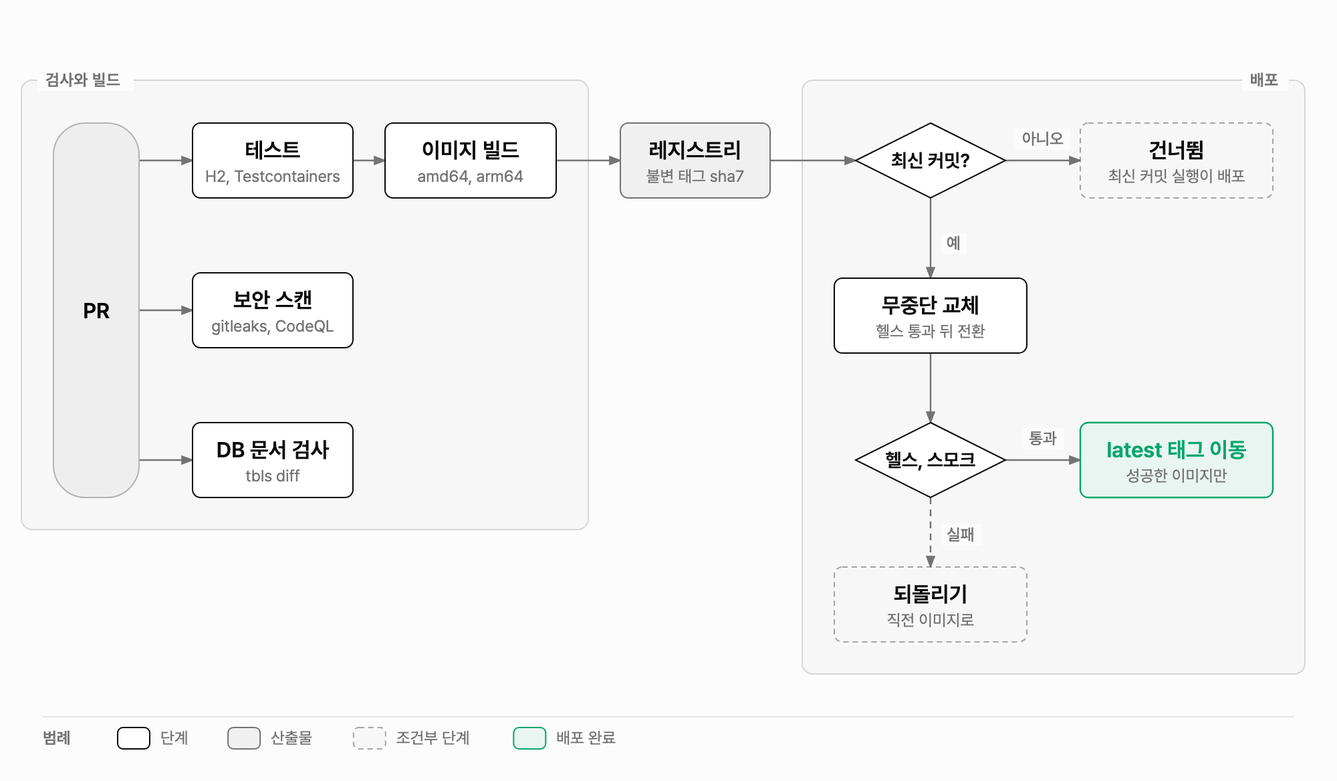
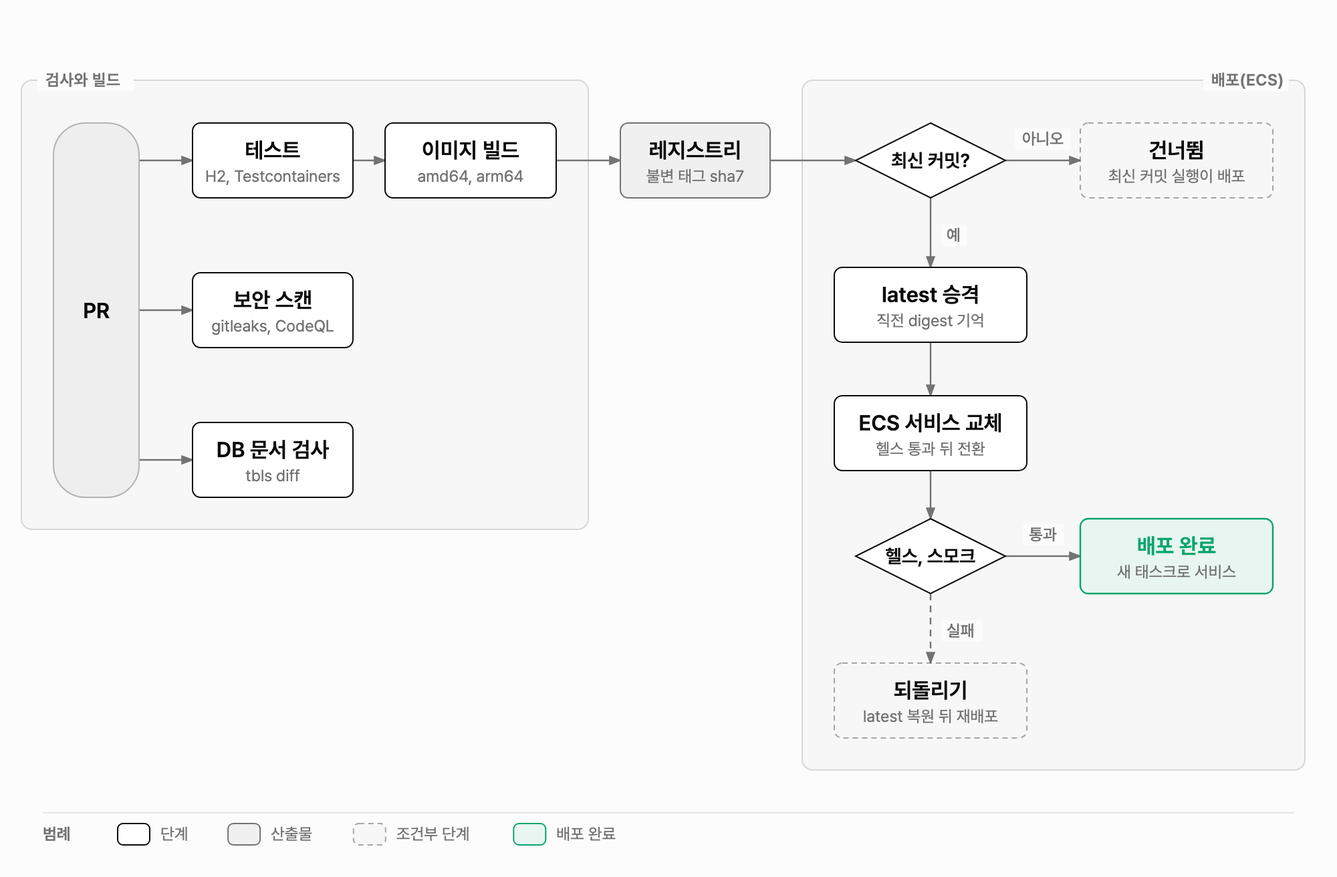
[KNK-2119] Docs: CI/CD 그림의 배포 단계를 ECS 순서로 고치고 보안 검사 범위를 밝힘

diff --git a/docs/diagrams/cicd-pipeline.html b/docs/diagrams/cicd-pipeline.html
@@ -1,1 +1,1 @@
-<!doctype html><html lang="ko"><head><meta charset="utf-8"><title>CI/CD 파이프라인</title><link rel="stylesheet" href="https://cdn.jsdelivr.net/gh/orioncactus/pretendard@v1.3.9/dist/web/variable/pretendardvariable.min.css"><link href="https://fonts.googleapis.com/css2?family=Geist+Mono:wght@400;500;600&display=swap" rel="stylesheet"><style>body{margin:0;background:#fcfcfc;font-family:'Pretendard Variable', Pretendard, 'Apple SD Gothic Neo', sans-serif;color:#0a0a0a}header{max-width:1000px;margin:32px auto 8px;padding:0 16px}h1{font-size:24px;margin:0 0 4px}p{color:#737373;margin:0}main{max-width:1000px;margin:0 auto 40px}</style></head><body><header><h1>CI/CD 파이프라인</h1><p>레지스트리가 검사와 빌드, 배포를 잇는다</p></header><main><svg xmlns="http://www.w3.org/2000/svg" viewBox="0 0 1000 584" width="1000" height="584" role="img" aria-labelledby="cicd-pipeline-title cicd-pipeline-desc"><title id="cicd-pipeline-title">CI/CD 파이프라인</title><desc id="cicd-pipeline-desc">PR 검사와 이미지 빌드, 레지스트리, 최신 커밋 확인, 무중단 교체, 헬스와 스모크, latest 태그 이동과 되돌리기로 이어지는 흐름</desc><defs><marker id="cicd-pipeline-arrow" markerWidth="8" markerHeight="6" refX="7" refY="3" orient="auto"><polygon points="0 0, 8 3, 0 6" fill="#737373"/></marker><marker id="cicd-pipeline-arrow-accent" markerWidth="8" markerHeight="6" refX="7" refY="3" orient="auto"><polygon points="0 0, 8 3, 0 6" fill="#05a66b"/></marker><marker id="cicd-pipeline-arrow-link" markerWidth="8" markerHeight="6" refX="7" refY="3" orient="auto"><polygon points="0 0, 8 3, 0 6" fill="#1f8a65"/></marker></defs><rect width="100%" height="100%" fill="#fcfcfc"/><rect x="600" y="60.0" width="376" height="444.0" rx="8" fill="rgba(10,10,10,0.02)" stroke="rgba(10,10,10,0.14)" stroke-width="1"/><rect x="929" y="52.0" width="35" height="16" fill="#fcfcfc"/><text x="935" y="64.0" font-family="'Pretendard Variable', Pretendard, 'Apple SD Gothic Neo', sans-serif" font-size="12" font-weight="600" fill="#737373" letter-spacing="0.02em">배포</text><rect x="16" y="60" width="424" height="336" rx="8" fill="rgba(10,10,10,0.02)" stroke="rgba(10,10,10,0.14)" stroke-width="1"/><rect x="28" y="52" width="72" height="16" fill="#fcfcfc"/><text x="34" y="64" font-family="'Pretendard Variable', Pretendard, 'Apple SD Gothic Neo', sans-serif" font-size="12" font-weight="600" fill="#737373" letter-spacing="0.02em">검사와 빌드</text><path d="M 104,120 L 144,120" fill="none" stroke="#737373" stroke-width="1.2" marker-end="url(#cicd-pipeline-arrow)"/><path d="M 104,232 L 144,232" fill="none" stroke="#737373" stroke-width="1.2" marker-end="url(#cicd-pipeline-arrow)"/><path d="M 104,344 L 144,344" fill="none" stroke="#737373" stroke-width="1.2" marker-end="url(#cicd-pipeline-arrow)"/><path d="M 264,120 L 288,120" fill="none" stroke="#737373" stroke-width="1.2" marker-end="url(#cicd-pipeline-arrow)"/><path d="M 416,120 L 464,120" fill="none" stroke="#737373" stroke-width="1.2" marker-end="url(#cicd-pipeline-arrow)"/><path d="M 576,120 L 640,120" fill="none" stroke="#737373" stroke-width="1.2" marker-end="url(#cicd-pipeline-arrow)"/><path d="M 752,120 L 808,120" fill="none" stroke="#737373" stroke-width="1.2" marker-end="url(#cicd-pipeline-arrow)"/><path d="M 696,148 L 696,208" fill="none" stroke="#737373" stroke-width="1.2" marker-end="url(#cicd-pipeline-arrow)"/><path d="M 696,264 L 696,316" fill="none" stroke="#737373" stroke-width="1.2" marker-end="url(#cicd-pipeline-arrow)"/><path d="M 752,344 L 808,344" fill="none" stroke="#737373" stroke-width="1.2" marker-end="url(#cicd-pipeline-arrow)"/><path d="M 696,372 L 696,424" fill="none" stroke="#737373" stroke-width="1.2" stroke-dasharray="5,4" marker-end="url(#cicd-pipeline-arrow)"/><rect x="40" y="92" width="64" height="280" rx="24" fill="#fcfcfc"/><rect x="40" y="92" width="64" height="280" rx="24" fill="rgba(115,115,115,0.10)" stroke="#b3b3b3" stroke-width="1"/><text x="72" y="238" text-anchor="middle" font-family="'Pretendard Variable', Pretendard, 'Apple SD Gothic Neo', sans-serif" font-size="16" font-weight="600" fill="#0a0a0a">PR</text><rect x="144" y="92" width="120" height="56" rx="6" fill="#fcfcfc"/><rect x="144" y="92" width="120" height="56" rx="6" fill="#ffffff" stroke="#0a0a0a" stroke-width="1"/><text x="204" y="118" text-anchor="middle" font-family="'Pretendard Variable', Pretendard, 'Apple SD Gothic Neo', sans-serif" font-size="16" font-weight="600" fill="#0a0a0a">테스트</text><text x="204" y="136" text-anchor="middle" font-family="'Pretendard Variable', Pretendard, 'Apple SD Gothic Neo', sans-serif" font-size="12" fill="#737373">H2, Testcontainers</text><rect x="144" y="204" width="120" height="56" rx="6" fill="#fcfcfc"/><rect x="144" y="204" width="120" height="56" rx="6" fill="#ffffff" stroke="#0a0a0a" stroke-width="1"/><text x="204" y="230" text-anchor="middle" font-family="'Pretendard Variable', Pretendard, 'Apple SD Gothic Neo', sans-serif" font-size="16" font-weight="600" fill="#0a0a0a">보안 스캔</text><text x="204" y="248" text-anchor="middle" font-family="'Pretendard Variable', Pretendard, 'Apple SD Gothic Neo', sans-serif" font-size="12" fill="#737373">gitleaks, CodeQL</text><rect x="144" y="316" width="120" height="56" rx="6" fill="#fcfcfc"/><rect x="144" y="316" width="120" height="56" rx="6" fill="#ffffff" stroke="#0a0a0a" stroke-width="1"/><text x="204" y="342" text-anchor="middle" font-family="'Pretendard Variable', Pretendard, 'Apple SD Gothic Neo', sans-serif" font-size="16" font-weight="600" fill="#0a0a0a">DB 문서 검사</text><text x="204" y="360" text-anchor="middle" font-family="'Pretendard Variable', Pretendard, 'Apple SD Gothic Neo', sans-serif" font-size="12" fill="#737373">tbls diff</text><rect x="288" y="92" width="128" height="56" rx="6" fill="#fcfcfc"/><rect x="288" y="92" width="128" height="56" rx="6" fill="#ffffff" stroke="#0a0a0a" stroke-width="1"/><text x="352" y="118" text-anchor="middle" font-family="'Pretendard Variable', Pretendard, 'Apple SD Gothic Neo', sans-serif" font-size="16" font-weight="600" fill="#0a0a0a">이미지 빌드</text><text x="352" y="136" text-anchor="middle" font-family="'Pretendard Variable', Pretendard, 'Apple SD Gothic Neo', sans-serif" font-size="12" fill="#737373">amd64, arm64</text><rect x="464" y="92" width="112" height="56" rx="6" fill="#fcfcfc"/><rect x="464" y="92" width="112" height="56" rx="6" fill="rgba(10,10,10,0.05)" stroke="#737373" stroke-width="1"/><text x="520" y="118" text-anchor="middle" font-family="'Pretendard Variable', Pretendard, 'Apple SD Gothic Neo', sans-serif" font-size="16" font-weight="600" fill="#0a0a0a">레지스트리</text><text x="520" y="136" text-anchor="middle" font-family="'Pretendard Variable', Pretendard, 'Apple SD Gothic Neo', sans-serif" font-size="12" fill="#737373">불변 태그 sha7</text><polygon points="696,92.0 752.0,120 696,148.0 640.0,120" fill="#fcfcfc"/><polygon points="696,92.0 752.0,120 696,148.0 640.0,120" fill="#ffffff" stroke="#0a0a0a" stroke-width="1"/><text x="696" y="125" text-anchor="middle" font-family="'Pretendard Variable', Pretendard, 'Apple SD Gothic Neo', sans-serif" font-size="14" font-weight="600" fill="#0a0a0a">최신 커밋?</text><rect x="808" y="92" width="144" height="56" rx="6" fill="#fcfcfc"/><rect x="808" y="92" width="144" height="56" rx="6" fill="rgba(10,10,10,0.02)" stroke="rgba(10,10,10,0.35)" stroke-width="1" stroke-dasharray="4,3"/><text x="880" y="118" text-anchor="middle" font-family="'Pretendard Variable', Pretendard, 'Apple SD Gothic Neo', sans-serif" font-size="16" font-weight="600" fill="#0a0a0a">건너뜀</text><text x="880" y="136" text-anchor="middle" font-family="'Pretendard Variable', Pretendard, 'Apple SD Gothic Neo', sans-serif" font-size="12" fill="#737373">최신 커밋 실행이 배포</text><rect x="624" y="208" width="144" height="56" rx="6" fill="#fcfcfc"/><rect x="624" y="208" width="144" height="56" rx="6" fill="#ffffff" stroke="#0a0a0a" stroke-width="1"/><text x="696" y="234" text-anchor="middle" font-family="'Pretendard Variable', Pretendard, 'Apple SD Gothic Neo', sans-serif" font-size="16" font-weight="600" fill="#0a0a0a">무중단 교체</text><text x="696" y="252" text-anchor="middle" font-family="'Pretendard Variable', Pretendard, 'Apple SD Gothic Neo', sans-serif" font-size="12" fill="#737373">헬스 통과 뒤 전환</text><polygon points="696,316.0 752.0,344 696,372.0 640.0,344" fill="#fcfcfc"/><polygon points="696,316.0 752.0,344 696,372.0 640.0,344" fill="#ffffff" stroke="#0a0a0a" stroke-width="1"/><text x="696" y="349" text-anchor="middle" font-family="'Pretendard Variable', Pretendard, 'Apple SD Gothic Neo', sans-serif" font-size="14" font-weight="600" fill="#0a0a0a">헬스, 스모크</text><rect x="808" y="316" width="144" height="56" rx="6" fill="#fcfcfc"/><rect x="808" y="316" width="144" height="56" rx="6" fill="rgba(5,166,107,0.08)" stroke="#05a66b" stroke-width="1.2"/><text x="880" y="342" text-anchor="middle" font-family="'Pretendard Variable', Pretendard, 'Apple SD Gothic Neo', sans-serif" font-size="16" font-weight="600" fill="#05a66b">latest 태그 이동</text><text x="880" y="360" text-anchor="middle" font-family="'Pretendard Variable', Pretendard, 'Apple SD Gothic Neo', sans-serif" font-size="12" fill="#737373">성공한 이미지만</text><rect x="624" y="424" width="144" height="56" rx="6" fill="#fcfcfc"/><rect x="624" y="424" width="144" height="56" rx="6" fill="rgba(10,10,10,0.02)" stroke="rgba(10,10,10,0.35)" stroke-width="1" stroke-dasharray="4,3"/><text x="696" y="450" text-anchor="middle" font-family="'Pretendard Variable', Pretendard, 'Apple SD Gothic Neo', sans-serif" font-size="16" font-weight="600" fill="#0a0a0a">되돌리기</text><text x="696" y="468" text-anchor="middle" font-family="'Pretendard Variable', Pretendard, 'Apple SD Gothic Neo', sans-serif" font-size="12" fill="#737373">직전 이미지로</text><rect x="759" y="96" width="42" height="16" rx="2" fill="#fcfcfc"/><text x="780" y="108" text-anchor="middle" font-family="'Pretendard Variable', Pretendard, 'Apple SD Gothic Neo', sans-serif" font-size="12" font-weight="500" fill="#737373">아니오</text><rect x="704" y="174" width="19" height="16" rx="2" fill="#fcfcfc"/><text x="708" y="186" text-anchor="start" font-family="'Pretendard Variable', Pretendard, 'Apple SD Gothic Neo', sans-serif" font-size="12" font-weight="500" fill="#737373">예</text><rect x="765" y="320" width="31" height="16" rx="2" fill="#fcfcfc"/><text x="780" y="332" text-anchor="middle" font-family="'Pretendard Variable', Pretendard, 'Apple SD Gothic Neo', sans-serif" font-size="12" font-weight="500" fill="#737373">통과</text><rect x="704" y="392" width="31" height="16" rx="2" fill="#fcfcfc"/><text x="708" y="404" text-anchor="start" font-family="'Pretendard Variable', Pretendard, 'Apple SD Gothic Neo', sans-serif" font-size="12" font-weight="500" fill="#737373">실패</text><line x1="32" y1="536" x2="968" y2="536" stroke="rgba(10,10,10,0.12)" stroke-width="0.8"/><text x="32" y="556" font-family="'Pretendard Variable', Pretendard, 'Apple SD Gothic Neo', sans-serif" font-size="12" font-weight="600" fill="#737373">범례</text><rect x="88" y="544" width="24" height="16" rx="4" fill="#ffffff" stroke="#0a0a0a" stroke-width="1"/><text x="120" y="556" font-family="'Pretendard Variable', Pretendard, 'Apple SD Gothic Neo', sans-serif" font-size="12" fill="#737373">단계</text><rect x="170.56" y="544" width="24" height="16" rx="4" fill="rgba(10,10,10,0.05)" stroke="#737373" stroke-width="1"/><text x="202.56" y="556" font-family="'Pretendard Variable', Pretendard, 'Apple SD Gothic Neo', sans-serif" font-size="12" fill="#737373">산출물</text><rect x="264.4" y="544" width="24" height="16" rx="4" fill="rgba(10,10,10,0.02)" stroke="rgba(10,10,10,0.35)" stroke-width="1" stroke-dasharray="4,3"/><text x="296.4" y="556" font-family="'Pretendard Variable', Pretendard, 'Apple SD Gothic Neo', sans-serif" font-size="12" fill="#737373">조건부 단계</text><rect x="384.15999999999997" y="544" width="24" height="16" rx="4" fill="rgba(5,166,107,0.08)" stroke="#05a66b" stroke-width="1"/><text x="416.15999999999997" y="556" font-family="'Pretendard Variable', Pretendard, 'Apple SD Gothic Neo', sans-serif" font-size="12" fill="#737373">배포 완료</text></svg></main></body></html>
+<!doctype html><html lang="ko"><head><meta charset="utf-8"><title>CI/CD 파이프라인</title><link rel="stylesheet" href="https://cdn.jsdelivr.net/gh/orioncactus/pretendard@v1.3.9/dist/web/variable/pretendardvariable.min.css"><link href="https://fonts.googleapis.com/css2?family=Geist+Mono:wght@400;500;600&display=swap" rel="stylesheet"><style>body{margin:0;background:#fcfcfc;font-family:'Pretendard Variable', Pretendard, 'Apple SD Gothic Neo', sans-serif;color:#0a0a0a}header{max-width:1000px;margin:32px auto 8px;padding:0 16px}h1{font-size:24px;margin:0 0 4px}p{color:#737373;margin:0}main{max-width:1000px;margin:0 auto 40px}</style></head><body><header><h1>CI/CD 파이프라인</h1><p>레지스트리가 검사와 빌드, 배포를 잇는다</p></header><main><svg xmlns="http://www.w3.org/2000/svg" viewBox="0 0 1000 656" width="1000" height="656" role="img" aria-labelledby="cicd-pipeline-title cicd-pipeline-desc"><title id="cicd-pipeline-title">CI/CD 파이프라인</title><desc id="cicd-pipeline-desc">PR 검사와 이미지 빌드, 레지스트리, 최신 커밋 확인, latest 승격, ECS 서비스 교체, 헬스와 스모크, 실패 때 latest 복원으로 이어지는 흐름</desc><defs><marker id="cicd-pipeline-arrow" markerWidth="8" markerHeight="6" refX="7" refY="3" orient="auto"><polygon points="0 0, 8 3, 0 6" fill="#737373"/></marker><marker id="cicd-pipeline-arrow-accent" markerWidth="8" markerHeight="6" refX="7" refY="3" orient="auto"><polygon points="0 0, 8 3, 0 6" fill="#05a66b"/></marker><marker id="cicd-pipeline-arrow-link" markerWidth="8" markerHeight="6" refX="7" refY="3" orient="auto"><polygon points="0 0, 8 3, 0 6" fill="#1f8a65"/></marker></defs><rect width="100%" height="100%" fill="#fcfcfc"/><rect x="600" y="60.0" width="376" height="516.0" rx="8" fill="rgba(10,10,10,0.02)" stroke="rgba(10,10,10,0.14)" stroke-width="1"/><rect x="900" y="52.0" width="64" height="16" fill="#fcfcfc"/><text x="906" y="64.0" font-family="'Pretendard Variable', Pretendard, 'Apple SD Gothic Neo', sans-serif" font-size="12" font-weight="600" fill="#737373" letter-spacing="0.02em">배포(ECS)</text><rect x="16" y="60" width="424" height="336" rx="8" fill="rgba(10,10,10,0.02)" stroke="rgba(10,10,10,0.14)" stroke-width="1"/><rect x="28" y="52" width="72" height="16" fill="#fcfcfc"/><text x="34" y="64" font-family="'Pretendard Variable', Pretendard, 'Apple SD Gothic Neo', sans-serif" font-size="12" font-weight="600" fill="#737373" letter-spacing="0.02em">검사와 빌드</text><path d="M 104,120 L 144,120" fill="none" stroke="#737373" stroke-width="1.2" marker-end="url(#cicd-pipeline-arrow)"/><path d="M 104,232 L 144,232" fill="none" stroke="#737373" stroke-width="1.2" marker-end="url(#cicd-pipeline-arrow)"/><path d="M 104,344 L 144,344" fill="none" stroke="#737373" stroke-width="1.2" marker-end="url(#cicd-pipeline-arrow)"/><path d="M 264,120 L 288,120" fill="none" stroke="#737373" stroke-width="1.2" marker-end="url(#cicd-pipeline-arrow)"/><path d="M 416,120 L 464,120" fill="none" stroke="#737373" stroke-width="1.2" marker-end="url(#cicd-pipeline-arrow)"/><path d="M 576,120 L 640,120" fill="none" stroke="#737373" stroke-width="1.2" marker-end="url(#cicd-pipeline-arrow)"/><path d="M 752,120 L 808,120" fill="none" stroke="#737373" stroke-width="1.2" marker-end="url(#cicd-pipeline-arrow)"/><path d="M 696,148 L 696,200" fill="none" stroke="#737373" stroke-width="1.2" marker-end="url(#cicd-pipeline-arrow)"/><path d="M 696,256 L 696,296" fill="none" stroke="#737373" stroke-width="1.2" marker-end="url(#cicd-pipeline-arrow)"/><path d="M 696,352 L 696,388" fill="none" stroke="#737373" stroke-width="1.2" marker-end="url(#cicd-pipeline-arrow)"/><path d="M 752,416 L 808,416" fill="none" stroke="#737373" stroke-width="1.2" marker-end="url(#cicd-pipeline-arrow)"/><path d="M 696,444 L 696,496" fill="none" stroke="#737373" stroke-width="1.2" stroke-dasharray="5,4" marker-end="url(#cicd-pipeline-arrow)"/><rect x="40" y="92" width="64" height="280" rx="24" fill="#fcfcfc"/><rect x="40" y="92" width="64" height="280" rx="24" fill="rgba(115,115,115,0.10)" stroke="#b3b3b3" stroke-width="1"/><text x="72" y="238" text-anchor="middle" font-family="'Pretendard Variable', Pretendard, 'Apple SD Gothic Neo', sans-serif" font-size="16" font-weight="600" fill="#0a0a0a">PR</text><rect x="144" y="92" width="120" height="56" rx="6" fill="#fcfcfc"/><rect x="144" y="92" width="120" height="56" rx="6" fill="#ffffff" stroke="#0a0a0a" stroke-width="1"/><text x="204" y="118" text-anchor="middle" font-family="'Pretendard Variable', Pretendard, 'Apple SD Gothic Neo', sans-serif" font-size="16" font-weight="600" fill="#0a0a0a">테스트</text><text x="204" y="136" text-anchor="middle" font-family="'Pretendard Variable', Pretendard, 'Apple SD Gothic Neo', sans-serif" font-size="12" fill="#737373">H2, Testcontainers</text><rect x="144" y="204" width="120" height="56" rx="6" fill="#fcfcfc"/><rect x="144" y="204" width="120" height="56" rx="6" fill="#ffffff" stroke="#0a0a0a" stroke-width="1"/><text x="204" y="230" text-anchor="middle" font-family="'Pretendard Variable', Pretendard, 'Apple SD Gothic Neo', sans-serif" font-size="16" font-weight="600" fill="#0a0a0a">보안 스캔</text><text x="204" y="248" text-anchor="middle" font-family="'Pretendard Variable', Pretendard, 'Apple SD Gothic Neo', sans-serif" font-size="12" fill="#737373">gitleaks, CodeQL</text><rect x="144" y="316" width="120" height="56" rx="6" fill="#fcfcfc"/><rect x="144" y="316" width="120" height="56" rx="6" fill="#ffffff" stroke="#0a0a0a" stroke-width="1"/><text x="204" y="342" text-anchor="middle" font-family="'Pretendard Variable', Pretendard, 'Apple SD Gothic Neo', sans-serif" font-size="16" font-weight="600" fill="#0a0a0a">DB 문서 검사</text><text x="204" y="360" text-anchor="middle" font-family="'Pretendard Variable', Pretendard, 'Apple SD Gothic Neo', sans-serif" font-size="12" fill="#737373">tbls diff</text><rect x="288" y="92" width="128" height="56" rx="6" fill="#fcfcfc"/><rect x="288" y="92" width="128" height="56" rx="6" fill="#ffffff" stroke="#0a0a0a" stroke-width="1"/><text x="352" y="118" text-anchor="middle" font-family="'Pretendard Variable', Pretendard, 'Apple SD Gothic Neo', sans-serif" font-size="16" font-weight="600" fill="#0a0a0a">이미지 빌드</text><text x="352" y="136" text-anchor="middle" font-family="'Pretendard Variable', Pretendard, 'Apple SD Gothic Neo', sans-serif" font-size="12" fill="#737373">amd64, arm64</text><rect x="464" y="92" width="112" height="56" rx="6" fill="#fcfcfc"/><rect x="464" y="92" width="112" height="56" rx="6" fill="rgba(10,10,10,0.05)" stroke="#737373" stroke-width="1"/><text x="520" y="118" text-anchor="middle" font-family="'Pretendard Variable', Pretendard, 'Apple SD Gothic Neo', sans-serif" font-size="16" font-weight="600" fill="#0a0a0a">레지스트리</text><text x="520" y="136" text-anchor="middle" font-family="'Pretendard Variable', Pretendard, 'Apple SD Gothic Neo', sans-serif" font-size="12" fill="#737373">불변 태그 sha7</text><polygon points="696,92.0 752.0,120 696,148.0 640.0,120" fill="#fcfcfc"/><polygon points="696,92.0 752.0,120 696,148.0 640.0,120" fill="#ffffff" stroke="#0a0a0a" stroke-width="1"/><text x="696" y="125" text-anchor="middle" font-family="'Pretendard Variable', Pretendard, 'Apple SD Gothic Neo', sans-serif" font-size="14" font-weight="600" fill="#0a0a0a">최신 커밋?</text><rect x="808" y="92" width="144" height="56" rx="6" fill="#fcfcfc"/><rect x="808" y="92" width="144" height="56" rx="6" fill="rgba(10,10,10,0.02)" stroke="rgba(10,10,10,0.35)" stroke-width="1" stroke-dasharray="4,3"/><text x="880" y="118" text-anchor="middle" font-family="'Pretendard Variable', Pretendard, 'Apple SD Gothic Neo', sans-serif" font-size="16" font-weight="600" fill="#0a0a0a">건너뜀</text><text x="880" y="136" text-anchor="middle" font-family="'Pretendard Variable', Pretendard, 'Apple SD Gothic Neo', sans-serif" font-size="12" fill="#737373">최신 커밋 실행이 배포</text><rect x="624" y="200" width="144" height="56" rx="6" fill="#fcfcfc"/><rect x="624" y="200" width="144" height="56" rx="6" fill="#ffffff" stroke="#0a0a0a" stroke-width="1"/><text x="696" y="226" text-anchor="middle" font-family="'Pretendard Variable', Pretendard, 'Apple SD Gothic Neo', sans-serif" font-size="16" font-weight="600" fill="#0a0a0a">latest 승격</text><text x="696" y="244" text-anchor="middle" font-family="'Pretendard Variable', Pretendard, 'Apple SD Gothic Neo', sans-serif" font-size="12" fill="#737373">직전 digest 기억</text><rect x="624" y="296" width="144" height="56" rx="6" fill="#fcfcfc"/><rect x="624" y="296" width="144" height="56" rx="6" fill="#ffffff" stroke="#0a0a0a" stroke-width="1"/><text x="696" y="322" text-anchor="middle" font-family="'Pretendard Variable', Pretendard, 'Apple SD Gothic Neo', sans-serif" font-size="16" font-weight="600" fill="#0a0a0a">ECS 서비스 교체</text><text x="696" y="340" text-anchor="middle" font-family="'Pretendard Variable', Pretendard, 'Apple SD Gothic Neo', sans-serif" font-size="12" fill="#737373">헬스 통과 뒤 전환</text><polygon points="696,388.0 752.0,416 696,444.0 640.0,416" fill="#fcfcfc"/><polygon points="696,388.0 752.0,416 696,444.0 640.0,416" fill="#ffffff" stroke="#0a0a0a" stroke-width="1"/><text x="696" y="421" text-anchor="middle" font-family="'Pretendard Variable', Pretendard, 'Apple SD Gothic Neo', sans-serif" font-size="14" font-weight="600" fill="#0a0a0a">헬스, 스모크</text><rect x="808" y="388" width="144" height="56" rx="6" fill="#fcfcfc"/><rect x="808" y="388" width="144" height="56" rx="6" fill="rgba(5,166,107,0.08)" stroke="#05a66b" stroke-width="1.2"/><text x="880" y="414" text-anchor="middle" font-family="'Pretendard Variable', Pretendard, 'Apple SD Gothic Neo', sans-serif" font-size="16" font-weight="600" fill="#05a66b">배포 완료</text><text x="880" y="432" text-anchor="middle" font-family="'Pretendard Variable', Pretendard, 'Apple SD Gothic Neo', sans-serif" font-size="12" fill="#737373">새 태스크로 서비스</text><rect x="624" y="496" width="144" height="56" rx="6" fill="#fcfcfc"/><rect x="624" y="496" width="144" height="56" rx="6" fill="rgba(10,10,10,0.02)" stroke="rgba(10,10,10,0.35)" stroke-width="1" stroke-dasharray="4,3"/><text x="696" y="522" text-anchor="middle" font-family="'Pretendard Variable', Pretendard, 'Apple SD Gothic Neo', sans-serif" font-size="16" font-weight="600" fill="#0a0a0a">되돌리기</text><text x="696" y="540" text-anchor="middle" font-family="'Pretendard Variable', Pretendard, 'Apple SD Gothic Neo', sans-serif" font-size="12" fill="#737373">latest 복원 뒤 재배포</text><rect x="759" y="96" width="42" height="16" rx="2" fill="#fcfcfc"/><text x="780" y="108" text-anchor="middle" font-family="'Pretendard Variable', Pretendard, 'Apple SD Gothic Neo', sans-serif" font-size="12" font-weight="500" fill="#737373">아니오</text><rect x="704" y="168" width="19" height="16" rx="2" fill="#fcfcfc"/><text x="708" y="180" text-anchor="start" font-family="'Pretendard Variable', Pretendard, 'Apple SD Gothic Neo', sans-serif" font-size="12" font-weight="500" fill="#737373">예</text><rect x="765" y="392" width="31" height="16" rx="2" fill="#fcfcfc"/><text x="780" y="404" text-anchor="middle" font-family="'Pretendard Variable', Pretendard, 'Apple SD Gothic Neo', sans-serif" font-size="12" font-weight="500" fill="#737373">통과</text><rect x="704" y="464" width="31" height="16" rx="2" fill="#fcfcfc"/><text x="708" y="476" text-anchor="start" font-family="'Pretendard Variable', Pretendard, 'Apple SD Gothic Neo', sans-serif" font-size="12" font-weight="500" fill="#737373">실패</text><line x1="32" y1="608" x2="968" y2="608" stroke="rgba(10,10,10,0.12)" stroke-width="0.8"/><text x="32" y="628" font-family="'Pretendard Variable', Pretendard, 'Apple SD Gothic Neo', sans-serif" font-size="12" font-weight="600" fill="#737373">범례</text><rect x="88" y="616" width="24" height="16" rx="4" fill="#ffffff" stroke="#0a0a0a" stroke-width="1"/><text x="120" y="628" font-family="'Pretendard Variable', Pretendard, 'Apple SD Gothic Neo', sans-serif" font-size="12" fill="#737373">단계</text><rect x="170.56" y="616" width="24" height="16" rx="4" fill="rgba(10,10,10,0.05)" stroke="#737373" stroke-width="1"/><text x="202.56" y="628" font-family="'Pretendard Variable', Pretendard, 'Apple SD Gothic Neo', sans-serif" font-size="12" fill="#737373">산출물</text><rect x="264.4" y="616" width="24" height="16" rx="4" fill="rgba(10,10,10,0.02)" stroke="rgba(10,10,10,0.35)" stroke-width="1" stroke-dasharray="4,3"/><text x="296.4" y="628" font-family="'Pretendard Variable', Pretendard, 'Apple SD Gothic Neo', sans-serif" font-size="12" fill="#737373">조건부 단계</text><rect x="384.15999999999997" y="616" width="24" height="16" rx="4" fill="rgba(5,166,107,0.08)" stroke="#05a66b" stroke-width="1"/><text x="416.15999999999997" y="628" font-family="'Pretendard Variable', Pretendard, 'Apple SD Gothic Neo', sans-serif" font-size="12" fill="#737373">배포 완료</text></svg></main></body></html>

diff --git a/README.md b/README.md
@@ -202,7 +202,7 @@ turnCount = storyTurnCounts.countByStoryId(story.id),
 
 ![CI/CD 파이프라인](docs/images/cicd-pipeline.png)
 
-dev와 main의 배포 잡은 늦게 끝난 옛 빌드가 최신 배포를 덮지 않도록 각 브랜치의 최신 커밋만 배포합니다. gitleaks는 PR과 푸시마다 비밀값 유출을, CodeQL은 PR과 dev 푸시, 매주 정기 실행에서 코드 취약점을 검사합니다.
+dev와 main의 배포 잡은 늦게 끝난 옛 빌드가 최신 배포를 덮지 않도록 각 브랜치의 최신 커밋만 배포합니다. gitleaks는 dev와 main으로 가는 PR과 두 브랜치 푸시마다 비밀값 유출을, CodeQL은 같은 PR과 dev 푸시, 매주 정기 실행에서 코드 취약점을 검사합니다.
 
 ### 2-8. 채팅 턴 스트리밍
 
@@ -234,7 +234,7 @@ dev와 main의 배포 잡은 늦게 끝난 옛 빌드가 최신 배포를 덮지
 
 요청을 처리하며 남긴 로그에는 요청 ID와 트레이스 ID가 함께 남아, 그 요청의 트레이스(서버부터 AI 서버, 알림 서비스까지)를 바로 찾아갈 수 있습니다. 오류는 Sentry, LLM 호출과 비용은 Langfuse, 사용자 행동은 Amplitude로 봅니다.
 
-**진단 에이전트**는 지표가 기준을 넘어 이상 징후가 잡히면 3분 동안 신호를 더 모은 뒤, LLM이 읽기 전용 도구로 트레이스, 로그, 메트릭을 조회해 원인을 진단하고 Slack에 보고합니다. 부하 테스트에서 찾은 병목 4건의 장애 구간을 두 번씩 진단하게 한 평가에서 3건의 원인을 두 번 모두 맞혔고, 보관 자료를 다시 넣은 평가에서는 나머지 1건(DB CPU 포화)도 다섯 번 모두 맞혔습니다. 진단 한 건의 비용은 $0.1\~0.3입니다.
+**진단 에이전트**는 지표가 기준을 넘어 이상 징후가 잡히면 3분 동안 신호를 더 모은 뒤, LLM이 읽기 전용 도구로 트레이스, 로그, 메트릭을 조회해 원인을 진단하고 Slack에 보고합니다. 부하 테스트에서 찾은 병목 4건의 장애 구간을 두 번씩 진단하게 한 평가에서 3건의 원인을 두 번 모두 맞혔고, 보관 자료를 다시 넣은 평가(2026-11-15)에서는 나머지 1건(DB CPU 포화)도 다섯 번 모두 맞혔습니다. 진단 한 건의 비용은 $0.1\~0.3입니다.
 
 <img src="docs/images/admin-ops-storage.png" width="480" alt="관리자 운영 지표 저장소 탭(고정 데이터)">
 
